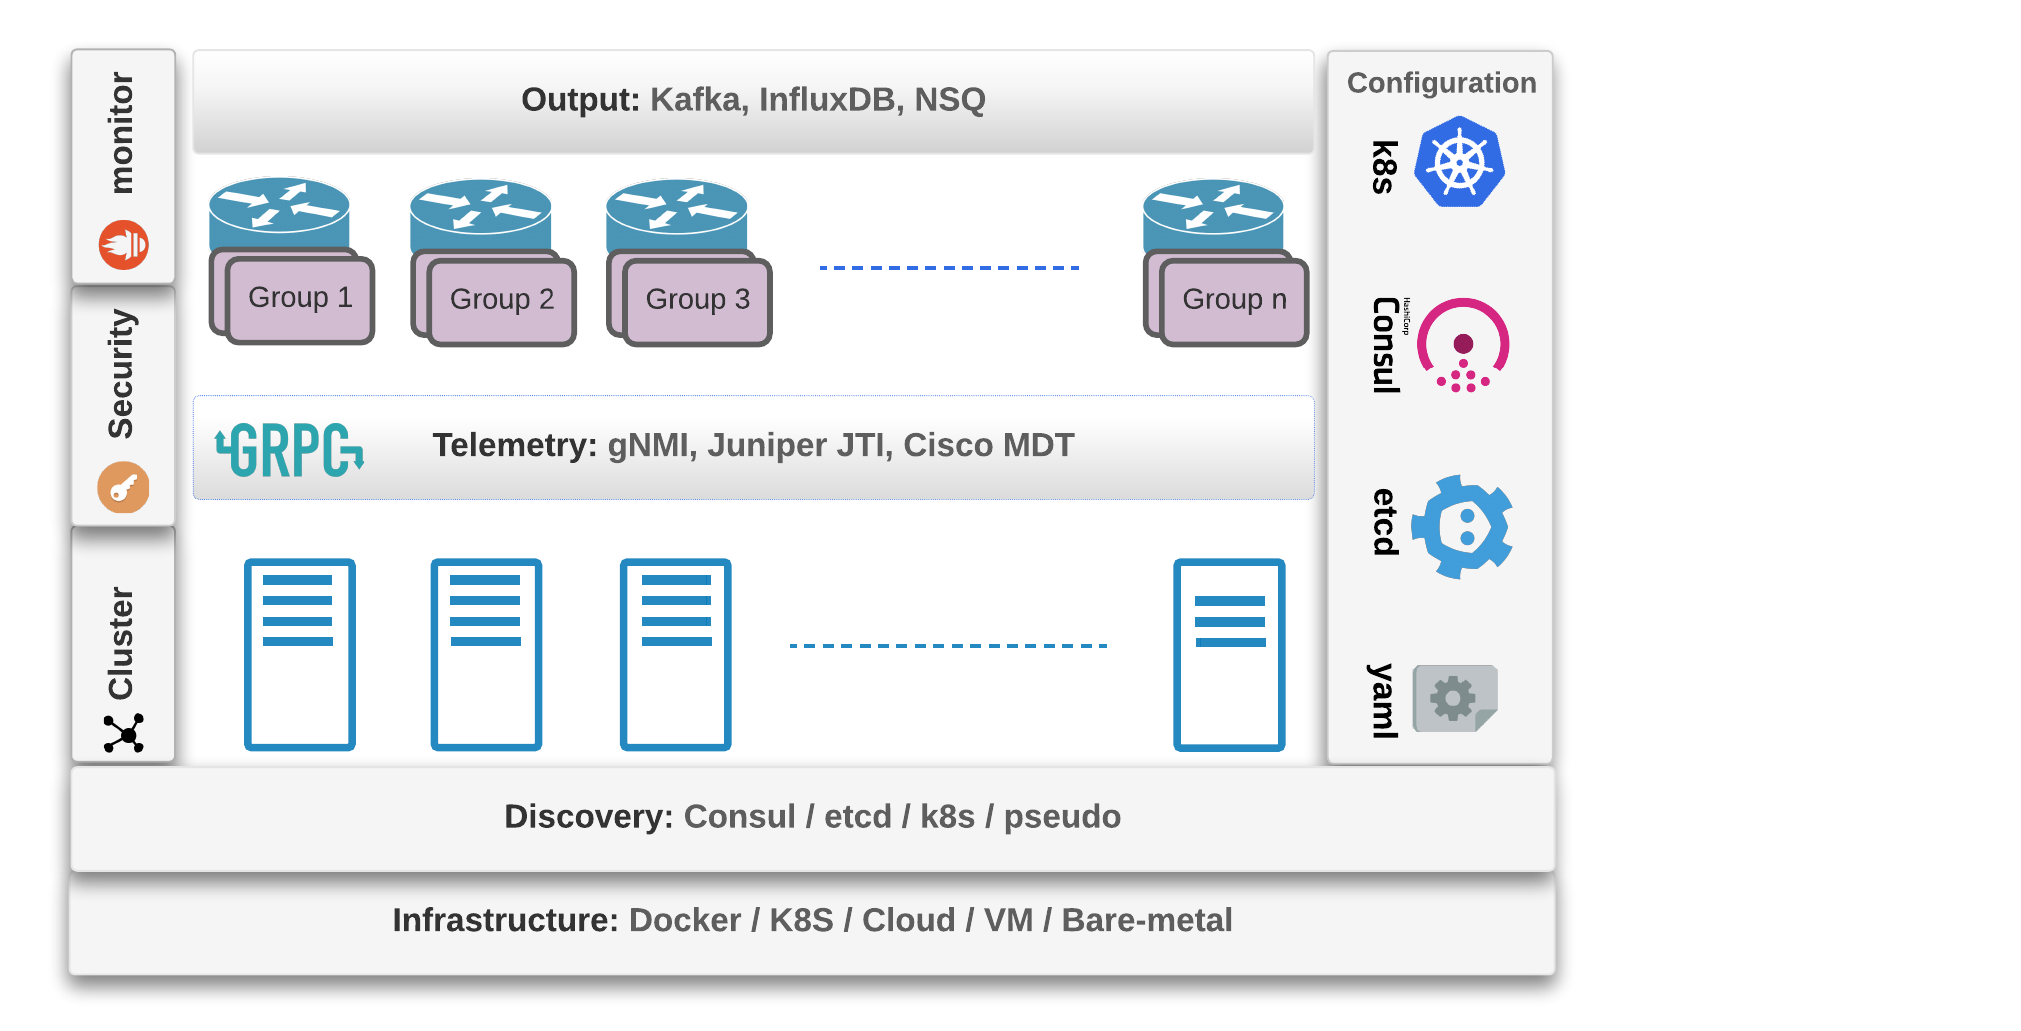
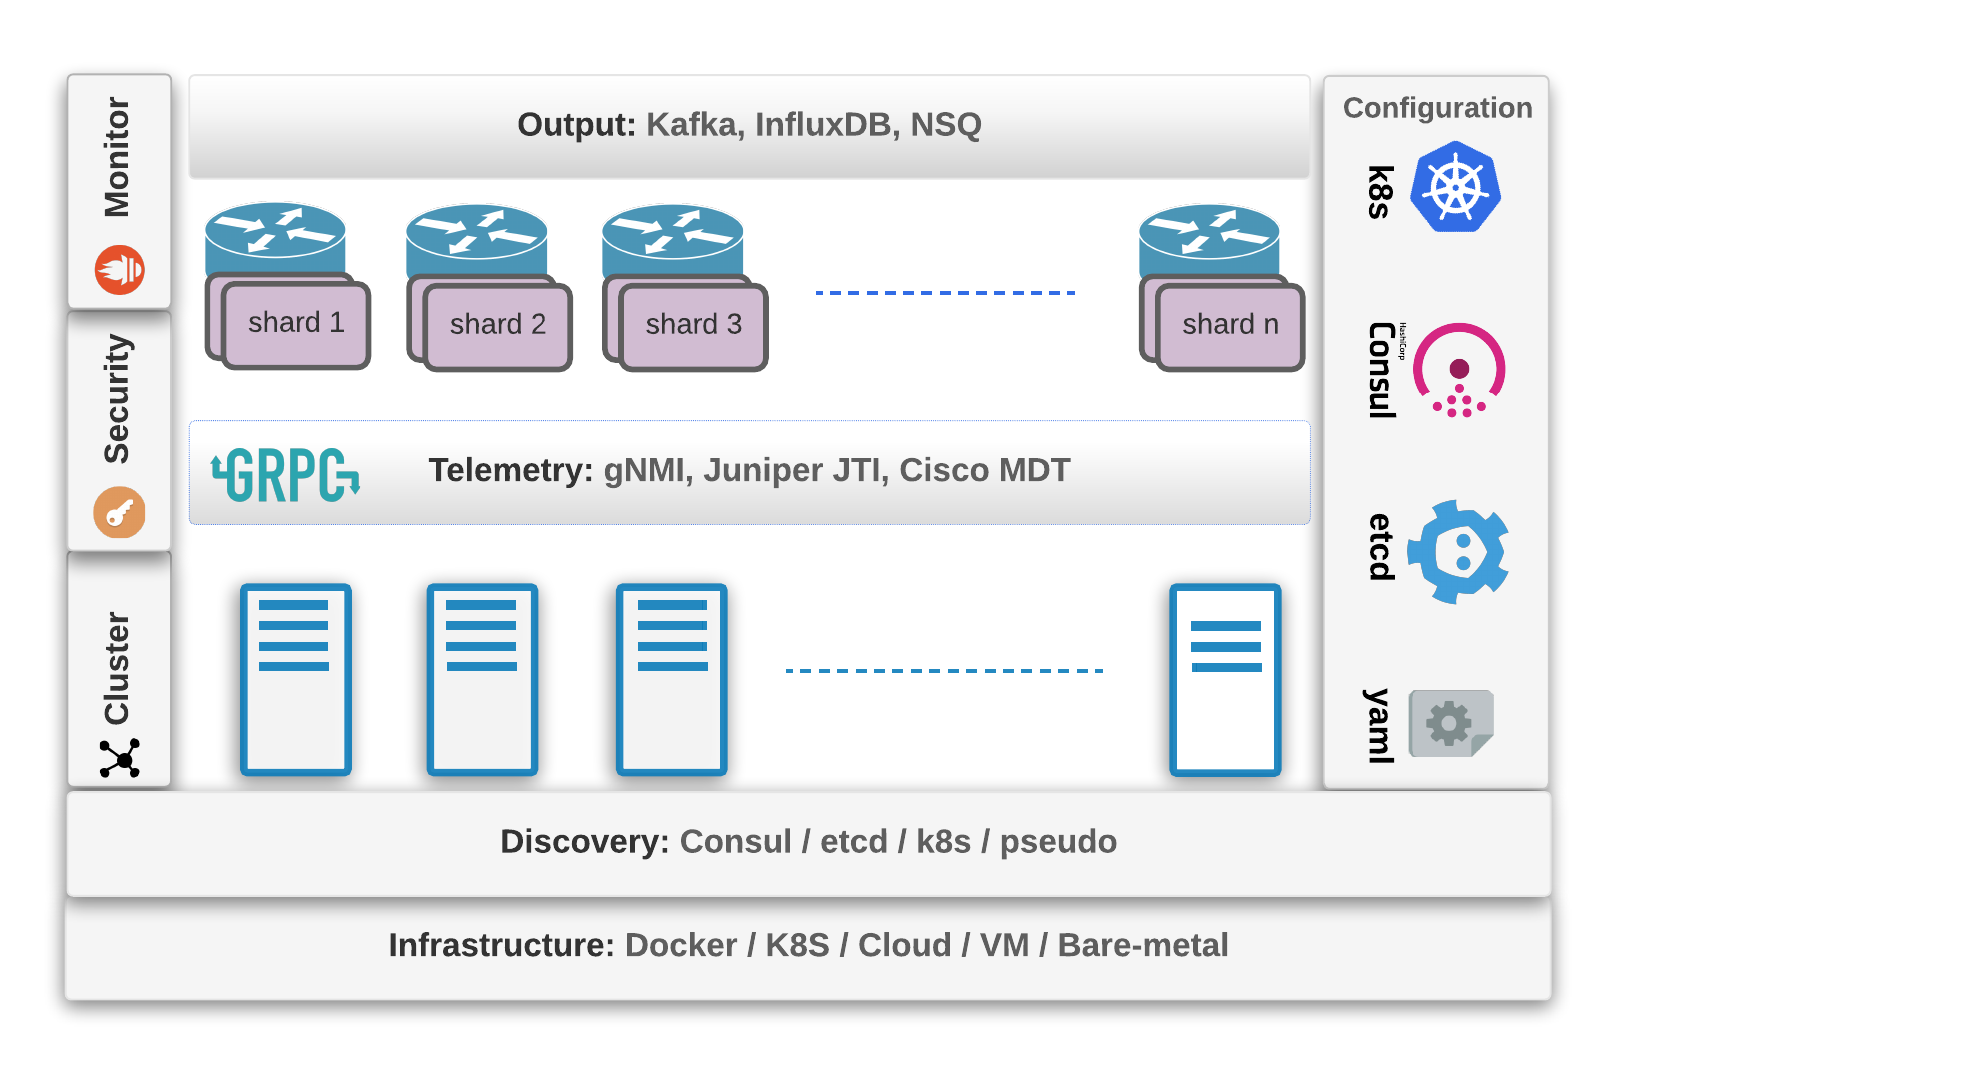
update

diff --git a/docs/config_tls.md b/docs/config_tls.md
@@ -1,5 +1,5 @@
 
-## TLS configuration
+### TLS configuration
 
 |key                 | description                                                                         |
 |--------------------|-------------------------------------------------------------------------------------|
@@ -9,7 +9,7 @@
 |keyFile             | The private key file contain PEM encoded data.                                      |
 |insecureSkipVerify  | It controls whether a client verifies the server's certificate chain and host name. |
 
-
+###### Sample TLS configuration:
 JSON
 ```json
 "tlsConfig": { 
@@ -31,7 +31,33 @@ tlsConfig:
     insecureSkipVerify": true 
 ```       
 
-##### Generate self-signed TLS Certificates by [cfssl](https://github.com/cloudflare/cfssl) and [cfssljson](https://github.com/cloudflare/cfssl)
+### Vault by Hashicorp
+Panoptes supports Vault for storing device's passwords, TLS keys and certificates.
+```
+Config syntax: __vault::key_path
+```
+```
+Value format: map[string][]byte, keys: cert, key and ca
+```
+###### Sample TLS configuration with Vault:
+JSON
+```json
+"tlsConfig": { 
+    "enabled": true,
+    "certFile": "__vault::panoptes/device/tls", 
+    "insecureSkipVerify": true 
+}
+```  
+YAML
+```yaml
+tlsConfig:
+    enabled": true 
+    certFile": __vault::panoptes/device/tls
+    insecureSkipVerify": true 
+```       
+
+
+### Generate self-signed TLS Certificates by [cfssl](https://github.com/cloudflare/cfssl) and [cfssljson](https://github.com/cloudflare/cfssl)
 
 ```
 cfssl gencert -initca ca-csr.json | cfssljson -bare ca

diff --git a/docs/faq.md b/docs/faq.md
@@ -1,2 +1,12 @@
 ## FAQ
 ---
+* What's the minimum requirement to run a single Panoptes instance?
+    >Panoptes needs at least 0.1 GB RAM and 1x vCPU. You can run it with a single binary without any dependency and configure it through following options: YAML file, etcd or consul.
+* Can Panoptes cluster work without etcd or consul?
+    >Yes, you can install it without etcd or consul. Panoptes uses Pseudo build-in health checking service instead and you need to configure node's addresses for each Panoptes daemon.
+* Does Panoptes require to reload when the   YAML configuration updates?
+    >No, Panoptes detects the changes immediately and apply the new configuration after a few seconds.      
+* What does routing metrics means?
+    >Panoptes can route the metrics / sensors to specific producer with given topic or route to a specific database with a given table. for example you can send the BGP metrics to Kafka with topic: BGP and send the interface counters to Kafka with topic: Interface also at the same time you can route VLAN metrics to InfluxDB with measurement vlan.
+* How to monitor Panoptes?
+    >Panoptes provides local monitoring information and exposes them through http endpoint with Prometheus format.         

diff --git a/docs/demo_etcd_shards.md b/docs/demo_etcd_shards.md
@@ -34,7 +34,7 @@ docker-compose -f docker-compose.etcd.yml ps
 ```
 ![panoptes consul demo](imgs/demo_shards_etcd_dc_ps.png)
 
-[http://localhost:3000](http://localhost:3000) Panoptes Sharding Status
+[http://localhost:3000](http://localhost:3000/d/2/panoptes-sharding-status?orgId=1&refresh=5s) Panoptes Sharding Status
 
 ![panoptes consul demo](imgs/demo_shards_gf_01.png)
 #### Stop second node
@@ -48,9 +48,12 @@ The node one will take over the device[2 & 4].lax in less than a minute.
 ```console
 docker start panoptes-node2
 ```
-[http://localhost:3000](http://localhost:3000) Panoptes Sharding Status
+[http://localhost:3000](http://localhost:3000/d/2/panoptes-sharding-status?orgId=1&refresh=5s) Panoptes Sharding Status
 
 ![panoptes consul demo](imgs/demo_shards_gf_03.png)
+
+[http://localhost:3000](http://localhost:3000/d/1/panoptes-sharding-demo?orgId=1&refresh=5s&from=now-5m&to=now) Panoptes Sharding Demo
+![panoptes consul demo](imgs/demo_shards_graphs.png)
 
 #### Clean up
 ```console

diff --git a/docs/demo_consul_shards.md b/docs/demo_consul_shards.md
@@ -34,7 +34,7 @@ docker-compose -f docker-compose.consul.yml ps
 ```
 ![panoptes consul demo](imgs/demo_shards_consul_dc_ps.png)
 
-[http://localhost:3000](http://localhost:3000) Panoptes Sharding Status
+[http://localhost:3000](http://localhost:3000/d/2/panoptes-sharding-status?orgId=1&refresh=5s) Panoptes Sharding Status
 
 
 ![panoptes consul demo](imgs/demo_shards_gf_01.png)
@@ -49,9 +49,12 @@ The node one will take over the device[2 & 4].lax in less than a minute.
 ```console
 docker start panoptes-node2
 ```
-[http://localhost:3000](http://localhost:3000) Panoptes Sharding Status
+[http://localhost:3000](http://localhost:3000/d/2/panoptes-sharding-status?orgId=1&refresh=5s) Panoptes Sharding Status
 
 ![panoptes consul demo](imgs/demo_shards_gf_03.png)
+
+[http://localhost:3000](http://localhost:3000/d/1/panoptes-sharding-demo?orgId=1&refresh=5s&from=now-5m&to=now) Panoptes Sharding Demo
+![panoptes consul demo](imgs/demo_shards_graphs.png)
 
 #### Clean up
 ```console

diff --git a/docs/demo_pseudo_shards.md b/docs/demo_pseudo_shards.md
@@ -31,7 +31,7 @@ docker-compose -f docker-compose.consul.yml ps
 ```
 ![panoptes consul demo](imgs/demo_shards_pseudo_dc_ps.png)
 
-[http://localhost:3000](http://localhost:3000) Panoptes Sharding Status
+[http://localhost:3000](http://localhost:3000/d/2/panoptes-sharding-status?orgId=1&refresh=5s) Panoptes Sharding Status
 
 
 ![panoptes consul demo](imgs/demo_shards_gf_01.png)
@@ -46,9 +46,12 @@ The node one will take over the device[2 & 4].lax in less than a minute.
 ```console
 docker start panoptes-node2
 ```
-[http://localhost:3000](http://localhost:3000) Panoptes Sharding Status
+[http://localhost:3000](http://localhost:3000/d/2/panoptes-sharding-status?orgId=1&refresh=5s) Panoptes Sharding Status
 
 ![panoptes consul demo](imgs/demo_shards_gf_03.png)
+
+[http://localhost:3000](http://localhost:3000/d/1/panoptes-sharding-demo?orgId=1&refresh=5s&from=now-5m&to=now) Panoptes Sharding Demo
+![panoptes consul demo](imgs/demo_shards_graphs.png)
 
 #### Clean up
 ```console

diff --git a/docs/demo_list.md b/docs/demo_list.md
@@ -1,6 +1,6 @@
-### Panoptes Streaming Demo
+### Panoptes Streaming Demonstrations :whale:
 ---
-You can try six different Panoptes streaming demonstrations at your laptop. they use Panoptes gNMI simulator to simulate Juniper routers so you can see exactly what's happening at the real production. The demo will take less than a minute to execute.
+You can try :six: different Panoptes streaming demonstrations at your laptop. they use Panoptes gNMI simulator to simulate Juniper routers so you can see exactly what's happening at the real production. The demo will take less than a minute to execute.
 
 
 You need to install [docker](https://docs.docker.com/get-docker/), in case you don’t have it already. 

diff --git a/docs/cisco/readme.md b/docs/cisco/readme.md
@@ -23,6 +23,18 @@ Router(config-model-driven-subs)#sensor-group-id SubGroup1 sample-interval 30000
 Router(config-mdt-subscription)# commit
 ```
 
+#### Panoptes
+Sample sensor configuration
+
+```yaml
+sensors:
+  sensor1:
+    subscription: Sub1
+    service: cisco.mdt
+    output: console::stdout
+```
+
+
 #### validation show commands
 ```
 show grpc
